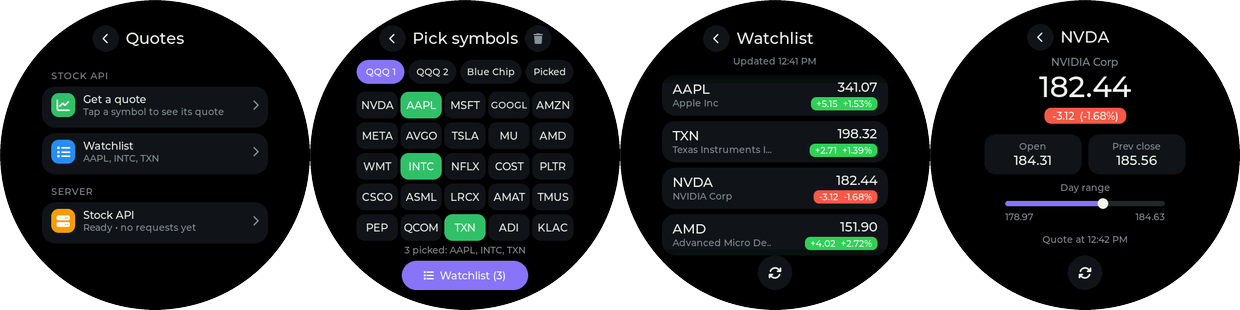
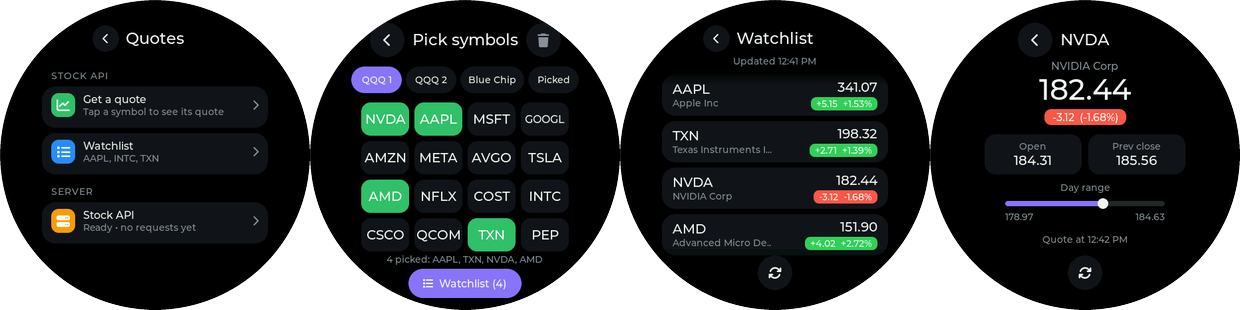
Quotes: bigger 4x4 symbol buttons and back button; phone page: collapsible sections
- Quotes pickers: 16 symbols per tab (was 25) on 72x50 / 86x58 buttons,
  52/56 px back and clear buttons, more space between header and tabs;
  up to 16 picked symbols (QT_SEL_MAX)
- Phone settings page: tap a section title to open/close it, Expand all /
  Collapse all, open sections remembered in localStorage (first visit:
  only Watch open)

Claude-Session: https://claude.ai/code/session_01QctZGpGqigtVyV83X9g1mG

diff --git a/main/web/settings.html b/main/web/settings.html
@@ -90,6 +90,18 @@ input[type=range] { width: 100%; margin: 12px 0 4px; accent-color: var(--accent)
 #toast.show { opacity: 1; transform: translate(-50%, 0); }
 #toast.bad { background: var(--err); }
 .hidden { display: none !important; }
+/* collapsible sections: tap a section's title to open or close it (remembered in this browser) */
+h2.fold { cursor: pointer; user-select: none; -webkit-user-select: none; margin: 8px 0 0; padding: 12px 16px;
+  border-radius: 12px; outline: none; }
+h2.fold:active { background: var(--field); }
+h2.fold:focus-visible { box-shadow: 0 0 0 2px var(--accent); }
+h2.fold .name { flex: 1; }
+h2.fold .chev { width: 9px; height: 9px; border-right: 2px solid var(--dim); border-bottom: 2px solid var(--dim);
+  transform: rotate(-45deg); transition: transform .15s; margin-right: 4px; }
+h2.fold.open .chev { transform: rotate(45deg); margin-top: -4px; }
+.card.folded { display: none; }
+.foldall { display: flex; justify-content: flex-end; margin: -10px 4px 0; }
+.foldall button { padding: 4px 6px; font-size: 14px; font-weight: 500; background: none; color: var(--accent); }
 </style>
 </head>
 <body>
@@ -107,6 +119,7 @@ input[type=range] { width: 100%; margin: 12px 0 4px; accent-color: var(--accent)
 <main id="app" class="hidden">
   <h1>Fusion Apps</h1>
   <p class="sub" id="statusLine"></p>
+  <div class="foldall"><button id="foldAll" type="button">Expand all</button></div>
 
   <h2><i style="background:var(--voice)"></i>Voice chat</h2>
   <div class="card">
@@ -242,6 +255,56 @@ input[type=range] { width: 100%; margin: 12px 0 4px; accent-color: var(--accent)
 const $ = (id) => document.getElementById(id);
 let state = null;            // last /api/state reply
 const dirty = new Set();     // text fields being edited (not overwritten by polling)
+
+/* ------------------------------------------------------------------ collapsible sections
+ * Each <h2> in the app opens and closes the card under it. Which ones are open is remembered in
+ * this browser (localStorage; if that's unavailable, they just start closed every time). */
+const FOLD_KEY = "fa_open_sections";
+function loadOpen() {
+  try { const v = JSON.parse(localStorage.getItem(FOLD_KEY)); if (Array.isArray(v)) return new Set(v); } catch (e) {}
+  return new Set(["Watch"]);                 // first visit: everything closed except Watch
+}
+function saveOpen(set) { try { localStorage.setItem(FOLD_KEY, JSON.stringify([...set])); } catch (e) {} }
+const openSections = loadOpen();
+const folds = [];
+function setFold(f, open) {
+  f.h.classList.toggle("open", open);
+  f.h.setAttribute("aria-expanded", open ? "true" : "false");
+  f.card.classList.toggle("folded", !open);
+  if (open) openSections.add(f.name); else openSections.delete(f.name);
+}
+function updateFoldAll() {
+  $("foldAll").textContent = folds.every((f) => f.h.classList.contains("open")) ? "Collapse all" : "Expand all";
+}
+for (const h of document.querySelectorAll("#app h2")) {
+  const card = h.nextElementSibling;
+  if (!card || !card.classList.contains("card")) continue;
+  const name = h.textContent.trim();
+  const label = document.createElement("span");
+  label.className = "name";
+  label.textContent = name;
+  for (const n of [...h.childNodes]) if (n.nodeType === Node.TEXT_NODE) n.remove();
+  h.appendChild(label);
+  const chev = document.createElement("span");
+  chev.className = "chev";
+  h.appendChild(chev);
+  h.classList.add("fold");
+  h.setAttribute("role", "button");
+  h.tabIndex = 0;
+  const f = { h, card, name };
+  folds.push(f);
+  setFold(f, openSections.has(name));
+  const toggle = () => { setFold(f, !h.classList.contains("open")); saveOpen(openSections); updateFoldAll(); };
+  h.addEventListener("click", toggle);
+  h.addEventListener("keydown", (e) => { if (e.key === "Enter" || e.key === " ") { e.preventDefault(); toggle(); } });
+}
+$("foldAll").onclick = () => {
+  const open = !folds.every((f) => f.h.classList.contains("open"));
+  for (const f of folds) setFold(f, open);
+  saveOpen(openSections);
+  updateFoldAll();
+};
+updateFoldAll();
 
 /* ------------------------------------------------------------------ helpers */
 let toastTimer;

diff --git a/main/apps/app_quotes.c b/main/apps/app_quotes.c
@@ -27,14 +27,25 @@
 #define C_QUOTES_1  0x2F8CFF
 #define C_QUOTES_2  0x5E5CE6
 
-/* ---- symbols on the picker screens: (tab name, up to 25 symbols) ------------------------
- * The same presets as the Stocks app's Pick screen, plus a "Picked" tab with your selection. */
-#define GRID_COLS 5
-#define GRID_ROWS 5
+/* ---- symbols on the picker screens: (tab name, up to 16 symbols) ------------------------
+ * A 4 x 4 grid of big buttons (easier to hit than the Stocks app's 5 x 5), so each tab has the
+ * 16 best-known names from the Stocks app's presets. Plus a "Picked" tab with your selection.
+ * Layout, top to bottom: header (big back button), tabs, grid, status, Watchlist button. */
+#define GRID_COLS 4
+#define GRID_ROWS 4
 #define GRID_MAX  (GRID_COLS * GRID_ROWS)
-#define SYM_W     UI_SZ(62, 72)      /* symbol button size */
-#define SYM_H     UI_SZ(40, 48)
-#define GRID_TOP  UI_SZ(138, 136)
+#define SYM_W     UI_SZ(72, 86)      /* symbol button size */
+#define SYM_H     UI_SZ(50, 58)
+#define SYM_GAP   8                  /* between buttons, both ways */
+#define HDR_Y     UI_SZ(34, 18)      /* header row (back button, title, clear) */
+#define HDR_BTN   UI_SZ(52, 56)      /* back / clear button size */
+#define TABS_Y    UI_SZ(100, 88)
+#define TABS_H    UI_SZ(40, 46)
+#define GRID_TOP  UI_SZ(154, 148)    /* grid is GRID_ROWS * (SYM_H + SYM_GAP) - SYM_GAP tall */
+#define STATUS_Y  UI_SZ(382, 410)
+#define GO_Y      UI_SZ(404, 436)    /* Watchlist button */
+#define GO_W      UI_SZ(170, 220)
+#define GO_H      UI_SZ(44, 52)
 
 typedef struct {
     const char *name;
@@ -42,15 +53,12 @@ typedef struct {
 } sym_group_t;
 
 static const sym_group_t GROUPS[] = {
-    { "QQQ 1", { "NVDA", "AAPL", "MSFT", "GOOGL", "AMZN", "META", "AVGO", "TSLA", "MU", "AMD",
-                 "WMT", "INTC", "NFLX", "COST", "PLTR", "CSCO", "ASML", "LRCX", "AMAT", "TMUS",
-                 "PEP", "QCOM", "TXN", "ADI", "KLAC", NULL } },
-    { "QQQ 2", { "GOOG", "ISRG", "LIN", "INTU", "AMGN", "ARM", "GILD", "SHOP", "APP", "BKNG",
-                 "PANW", "CRWD", "HON", "ADBE", "ADP", "SBUX", "MELI", "CMCSA", "VRTX", "REGN",
-                 "MRVL", "CDNS", "SNPS", "ABNB", "PYPL", NULL } },
-    { "Blue Chip", { "JPM", "V", "MA", "BAC", "GS", "JNJ", "UNH", "LLY", "MRK", "ABBV",
-                     "PG", "KO", "HD", "MCD", "NKE", "DIS", "IBM", "ORCL", "CRM", "VZ",
-                     "XOM", "CVX", "CAT", "BA", "T", NULL } },
+    { "QQQ 1", { "NVDA", "AAPL", "MSFT", "GOOGL", "AMZN", "META", "AVGO", "TSLA",
+                 "AMD", "NFLX", "COST", "INTC", "CSCO", "QCOM", "TXN", "PEP", NULL } },
+    { "QQQ 2", { "ADBE", "INTU", "AMAT", "MU", "LRCX", "ASML", "PLTR", "ARM",
+                 "PANW", "CRWD", "SHOP", "ABNB", "PYPL", "SBUX", "BKNG", "ISRG", NULL } },
+    { "Blue Chip", { "JPM", "V", "MA", "BAC", "GS", "JNJ", "UNH", "LLY",
+                     "PG", "KO", "HD", "MCD", "DIS", "IBM", "XOM", "T", NULL } },
 };
 #define GROUP_COUNT ((int)(sizeof(GROUPS) / sizeof(GROUPS[0])))
 #define PICKED_TAB  GROUP_COUNT          /* the symbols picked for the watchlist */
@@ -206,22 +214,23 @@ static lv_obj_t *header(lv_obj_t *scr, const char *title, lv_event_cb_t back_cb,
     lv_obj_t *hdr = lv_obj_create(scr);
     lv_obj_remove_style_all(hdr);
     lv_obj_remove_flag(hdr, LV_OBJ_FLAG_CLICKABLE);
-    lv_obj_set_size(hdr, LV_SIZE_CONTENT, UI_SZ(44, 46));
-    lv_obj_align(hdr, LV_ALIGN_TOP_MID, 0, UI_SZ(36, 22));
+    lv_obj_set_size(hdr, LV_SIZE_CONTENT, HDR_BTN);
+    lv_obj_align(hdr, LV_ALIGN_TOP_MID, 0, HDR_Y);
     lv_obj_set_flex_flow(hdr, LV_FLEX_FLOW_ROW);
     lv_obj_set_flex_align(hdr, LV_FLEX_ALIGN_CENTER, LV_FLEX_ALIGN_CENTER, LV_FLEX_ALIGN_CENTER);
-    lv_obj_set_style_pad_column(hdr, 10, 0);
-    lv_obj_t *back = ui_round_button(hdr, ICON_LEFT, UI_SZ(&ui_icons_16, &ui_icons_20), UI_SZ(40, 46), ui_pal.card, ui_pal.text);
+    lv_obj_set_style_pad_column(hdr, 12, 0);
+    lv_obj_t *back = ui_round_button(hdr, ICON_LEFT, UI_SZ(&ui_icons_20, &ui_icons_28), HDR_BTN, ui_pal.card, ui_pal.text);
+    lv_obj_set_ext_click_area(back, 8);       /* a little extra margin around it */
     lv_obj_add_event_cb(back, back_cb, LV_EVENT_CLICKED, NULL);
     ui_label(hdr, UI_F_TITLE, ui_pal.text, title);
     lv_obj_t *r;
     if (right_icon) {
-        r = ui_round_button(hdr, right_icon, UI_SZ(&ui_icons_16, &ui_icons_20), UI_SZ(40, 46), ui_pal.card, ui_pal.text_dim);
+        r = ui_round_button(hdr, right_icon, UI_SZ(&ui_icons_20, &ui_icons_28), HDR_BTN, ui_pal.card, ui_pal.text_dim);
         lv_obj_add_event_cb(r, right_cb, LV_EVENT_CLICKED, NULL);
     } else {
         r = lv_obj_create(hdr);
         lv_obj_remove_style_all(r);
-        lv_obj_set_size(r, UI_SZ(40, 46), UI_SZ(40, 46));
+        lv_obj_set_size(r, HDR_BTN, HDR_BTN);
     }
     if (right_out) *right_out = r;
     return hdr;
@@ -402,7 +411,7 @@ static lv_obj_t *sym_button(const char *text, int i)
     lv_obj_t *b = lv_obj_create(A->p.grid);
     lv_obj_remove_style_all(b);
     lv_obj_set_size(b, SYM_W, SYM_H);
-    lv_obj_set_style_radius(b, 12, 0);
+    lv_obj_set_style_radius(b, 14, 0);
     lv_obj_set_style_bg_opa(b, LV_OPA_COVER, 0);
     lv_obj_set_style_bg_color(b, ui_pal.card, 0);
     lv_obj_set_style_transform_scale(b, 235, LV_STATE_PRESSED);
@@ -410,7 +419,7 @@ static lv_obj_t *sym_button(const char *text, int i)
     lv_obj_set_style_transform_pivot_y(b, SYM_H / 2, 0);
     lv_obj_add_flag(b, LV_OBJ_FLAG_CLICKABLE);
     lv_obj_remove_flag(b, LV_OBJ_FLAG_SCROLLABLE);
-    lv_obj_t *l = ui_label(b, strlen(text) > 4 ? UI_FONT(14, 16) : UI_FONT(16, 20), ui_pal.text, text);
+    lv_obj_t *l = ui_label(b, strlen(text) > 4 ? UI_FONT(16, 20) : UI_FONT(20, 24), ui_pal.text, text);
     lv_obj_center(l);
     lv_obj_add_event_cb(b, sym_cb, LV_EVENT_CLICKED, (void *)(intptr_t)i);
     return b;
@@ -510,14 +519,14 @@ static lv_obj_t *picker_build(void *arg)
     lv_obj_t *bar = lv_obj_create(scr);
     lv_obj_remove_style_all(bar);
     lv_obj_remove_flag(bar, LV_OBJ_FLAG_CLICKABLE);
-    lv_obj_set_size(bar, LV_SIZE_CONTENT, UI_SZ(36, 42));
+    lv_obj_set_size(bar, LV_SIZE_CONTENT, TABS_H);
     lv_obj_set_flex_flow(bar, LV_FLEX_FLOW_ROW);
     lv_obj_set_style_pad_column(bar, 6, 0);
-    lv_obj_align(bar, LV_ALIGN_TOP_MID, 0, UI_SZ(90, 80));
+    lv_obj_align(bar, LV_ALIGN_TOP_MID, 0, TABS_Y);
     for (int t = 0; t < ntabs; t++) {
         lv_obj_t *b = lv_obj_create(bar);
         lv_obj_remove_style_all(b);
-        lv_obj_set_size(b, t == 2 ? UI_SZ(92, 108) : UI_SZ(72, 84), UI_SZ(36, 42));
+        lv_obj_set_size(b, t == 2 ? UI_SZ(96, 108) : UI_SZ(76, 86), TABS_H);
         lv_obj_set_style_radius(b, LV_RADIUS_CIRCLE, 0);
         lv_obj_set_style_bg_opa(b, LV_OPA_COVER, 0);
         lv_obj_add_flag(b, LV_OBJ_FLAG_CLICKABLE);
@@ -534,29 +543,29 @@ static lv_obj_t *picker_build(void *arg)
     lv_obj_remove_style_all(A->p.grid);
     lv_obj_remove_flag(A->p.grid, LV_OBJ_FLAG_CLICKABLE);
     lv_obj_remove_flag(A->p.grid, LV_OBJ_FLAG_SCROLLABLE);
-    lv_obj_set_size(A->p.grid, GRID_COLS * SYM_W + (GRID_COLS - 1) * 4, GRID_ROWS * SYM_H + (GRID_ROWS - 1) * 6);
+    lv_obj_set_size(A->p.grid, GRID_COLS * SYM_W + (GRID_COLS - 1) * SYM_GAP, GRID_ROWS * SYM_H + (GRID_ROWS - 1) * SYM_GAP);
     lv_obj_align(A->p.grid, LV_ALIGN_TOP_MID, 0, GRID_TOP);
     lv_obj_set_flex_flow(A->p.grid, LV_FLEX_FLOW_ROW_WRAP);
     lv_obj_set_flex_align(A->p.grid, LV_FLEX_ALIGN_START, LV_FLEX_ALIGN_START, LV_FLEX_ALIGN_START);
-    lv_obj_set_style_pad_column(A->p.grid, 4, 0);
-    lv_obj_set_style_pad_row(A->p.grid, 6, 0);
+    lv_obj_set_style_pad_column(A->p.grid, SYM_GAP, 0);
+    lv_obj_set_style_pad_row(A->p.grid, SYM_GAP, 0);
 
     A->p.status = ui_label(scr, UI_FONT(14, 16), ui_pal.text_dim, "");
     lv_obj_set_width(A->p.status, watch ? UI_SZ(290, UI_W - 60) : UI_SZ(280, UI_W - 80));
     lv_obj_set_style_text_align(A->p.status, LV_TEXT_ALIGN_CENTER, 0);
     lv_label_set_long_mode(A->p.status, LV_LABEL_LONG_MODE_DOTS);
-    lv_obj_align(A->p.status, LV_ALIGN_TOP_MID, 0, watch ? UI_SZ(368, 408) : UI_SZ(374, 414));
+    lv_obj_align(A->p.status, LV_ALIGN_TOP_MID, 0, STATUS_Y);
 
     if (watch) {
         /* [list icon] Watchlist (N) */
         A->p.go = lv_obj_create(scr);
         lv_obj_remove_style_all(A->p.go);
-        lv_obj_set_size(A->p.go, UI_SZ(190, 220), UI_SZ(44, 50));
+        lv_obj_set_size(A->p.go, GO_W, GO_H);
         lv_obj_set_style_radius(A->p.go, LV_RADIUS_CIRCLE, 0);
         lv_obj_set_style_bg_opa(A->p.go, LV_OPA_COVER, 0);
         lv_obj_set_style_transform_scale(A->p.go, 240, LV_STATE_PRESSED);
-        lv_obj_set_style_transform_pivot_x(A->p.go, UI_SZ(190, 220) / 2, 0);
-        lv_obj_set_style_transform_pivot_y(A->p.go, UI_SZ(44, 50) / 2, 0);
+        lv_obj_set_style_transform_pivot_x(A->p.go, GO_W / 2, 0);
+        lv_obj_set_style_transform_pivot_y(A->p.go, GO_H / 2, 0);
         lv_obj_add_flag(A->p.go, LV_OBJ_FLAG_CLICKABLE);
         lv_obj_remove_flag(A->p.go, LV_OBJ_FLAG_SCROLLABLE);
         lv_obj_set_flex_flow(A->p.go, LV_FLEX_FLOW_ROW);
@@ -564,11 +573,11 @@ static lv_obj_t *picker_build(void *arg)
         lv_obj_set_style_pad_column(A->p.go, 8, 0);
         ui_icon(A->p.go, UI_SZ(&ui_icons_16, &ui_icons_20), lv_color_white(), ICON_LIST);
         A->p.go_lbl = ui_label(A->p.go, UI_FONT(16, 20), lv_color_white(), "Watchlist");
-        lv_obj_align(A->p.go, LV_ALIGN_TOP_MID, 0, UI_SZ(392, 438));
+        lv_obj_align(A->p.go, LV_ALIGN_TOP_MID, 0, GO_Y);
         lv_obj_add_event_cb(A->p.go, go_cb, LV_EVENT_CLICKED, NULL);
     } else {
         lv_obj_t *hint = ui_label(scr, UI_FONT(12, 14), ui_pal.text_dim, "Swipe right to go back");
-        lv_obj_align(hint, LV_ALIGN_TOP_MID, 0, UI_SZ(398, 442));
+        lv_obj_align(hint, LV_ALIGN_TOP_MID, 0, STATUS_Y + UI_SZ(24, 28));
     }
 
     build_grid();
@@ -983,17 +992,16 @@ static lv_obj_t *quote_build(void *arg)
     A->q.scr = scr;
     lv_obj_add_event_cb(scr, back_gesture_cb, LV_EVENT_GESTURE, NULL);
 
-    lv_obj_t *hdr = header(scr, A->quote_sym, pop_cb, NULL, NULL, NULL);
-    lv_obj_align(hdr, LV_ALIGN_TOP_MID, 0, UI_HEADER_Y);
+    header(scr, A->quote_sym, pop_cb, NULL, NULL, NULL);
 
     A->q.name = ui_label(scr, UI_FONT(16, 20), ui_pal.text_dim, "");
     lv_obj_set_size(A->q.name, UI_SZ(290, UI_W - 60), lv_font_get_line_height(UI_FONT(16, 20)));
     lv_label_set_long_mode(A->q.name, LV_LABEL_LONG_MODE_DOTS);
     lv_obj_set_style_text_align(A->q.name, LV_TEXT_ALIGN_CENTER, 0);
-    lv_obj_align(A->q.name, LV_ALIGN_TOP_MID, 0, UI_SZ(84, 80));
+    lv_obj_align(A->q.name, LV_ALIGN_TOP_MID, 0, UI_SZ(90, 80));   /* under the bigger header */
 
     A->q.price = ui_label(scr, &lv_font_montserrat_44, ui_pal.text, "...");
-    lv_obj_align(A->q.price, LV_ALIGN_TOP_MID, 0, UI_SZ(106, 110));
+    lv_obj_align(A->q.price, LV_ALIGN_TOP_MID, 0, UI_SZ(110, 110));
 
     A->q.pill = lv_obj_create(scr);
     lv_obj_remove_style_all(A->q.pill);
@@ -1004,7 +1012,7 @@ static lv_obj_t *quote_build(void *arg)
     lv_obj_set_style_pad_hor(A->q.pill, 12, 0);
     lv_obj_set_style_pad_ver(A->q.pill, 3, 0);
     A->q.chg = ui_label(A->q.pill, UI_FONT(16, 20), lv_color_white(), "");
-    lv_obj_align(A->q.pill, LV_ALIGN_TOP_MID, 0, UI_SZ(162, 170));
+    lv_obj_align(A->q.pill, LV_ALIGN_TOP_MID, 0, UI_SZ(164, 170));
 
     /* open | previous close */
     lv_obj_t *cards = lv_obj_create(scr);

diff --git a/main/app_config.h b/main/app_config.h
@@ -103,7 +103,7 @@
 #define QT_TIMEOUT_MS        15000
 #define QT_REFRESH_MS        (60 * 1000)        /* the open Watchlist or Quote screen refreshes this often */
 #define QT_RETRY_MS          (15 * 1000)        /* after a failed watchlist load */
-#define QT_SEL_MAX           20                 /* symbols you can pick for the watchlist */
+#define QT_SEL_MAX           16                 /* symbols you can pick for the watchlist (one Picked page) */
 #define DEFAULT_QT_SYMBOLS   "AAPL,INTC,TXN"    /* first boot; secrets.h STOCK_API_SYMBOLS overrides */
 #define QT_DEBUG             0                  /* 1 = log the first 300 bytes of every reply (tag "quotes") */
 

diff --git a/tools/ui_preview/sim.c b/tools/ui_preview/sim.c
@@ -624,7 +624,7 @@ int main(int argc, char **argv)
     shot("b2_quotes_quote_from_watchlist");
     swipe(CX(110), MY(250), CX(360), MY(250)); step(400);  /* -> Watchlist */
     swipe(CX(110), MY(250), CX(360), MY(250)); step(400);  /* -> Pick symbols */
-    tap(CX(233 + 107), TY(58));                          /* clear (trash) */
+    tap(CX(233 + 113), TY(60));                          /* clear (trash) */
     shot("b3_quotes_clear_confirm");
     tap_text("Clear");
     shot("b4_quotes_pick_watch_empty");

diff --git a/README.md b/README.md
@@ -91,9 +91,9 @@ the device.*
 | **Pick symbols** (+ or swipe left in Stocks) | Tabs of preset symbols (**QQQ 1**, **QQQ 2**, **Blue Chip**) and **Other** (watchlist symbols not on a tab, e.g. added from Claude). Tap to add (green) or remove (gray) |
 | **Stock server** (gear in Stocks) | See and change the MCP server URL and API key, connection status, refresh now, reset URL to `secrets.h` |
 | **Quotes** | The REST stocks app. A menu: **Get a quote**, **Watchlist** (shows what you picked) and **Stock API** (with its status) |
-| **Get a quote** (Quotes) | Tabs of symbols (**QQQ 1**, **QQQ 2**, **Blue Chip**). Tap one for its Quote screen; the one you looked at last has a ring |
+| **Get a quote** (Quotes) | Tabs of symbols (**QQQ 1**, **QQQ 2**, **Blue Chip**), 16 big buttons each (4 x 4), and a big back button. Tap one for its Quote screen; the one you looked at last has a ring |
 | **Quote** (Quotes) | A detailed quote from `GET /quote`: price, change, open, previous close and the day's range. Refresh button; refreshes every minute while open |
-| **Pick symbols** (Quotes > Watchlist) | The same tabs plus **Picked**. Tap to select (green) or deselect, up to 20. The trash button clears the list. **Watchlist (N)** shows them |
+| **Pick symbols** (Quotes > Watchlist) | The same tabs plus **Picked**. Tap to select (green) or deselect, up to 16. The trash button clears the list. **Watchlist (N)** shows them |
 | **Watchlist** (Quotes) | Quotes for the picked symbols from one `GET /watchlist`, in the order you picked them. Tap a row for its Quote screen. Refresh button; refreshes every minute while open |
 | **Stock API** (Quotes) | See and change the base URL and API key, status of the last request, the two endpoints, **Test** (asks for one quote), reset URL to `secrets.h` |
 | **Settings** | Wi-Fi network (scan list or typed name) and password, dark mode, brightness, volume, voice-chat conversation (show / start new) and wake word on/off, Voice AI conversation (show / start new), phone settings page (on/off, address, PIN), battery (%, state, voltage), version and free memory, restart, reset |
@@ -184,6 +184,11 @@ as before on the watch; the page is a second way to change the same settings.
    address (`fusion-apps.local`), the **PIN** (6 digits) and the IP address.
 2. On the phone, on the same Wi-Fi: open `http://fusion-apps.local` (or `http://<IP address>`).
 3. Enter the PIN. The browser stays signed in until the watch restarts or you make a new PIN.
+
+Each section (Voice chat, Voice AI, Translator, Stocks, Quotes, Display and sound, Watch) opens and
+closes when you tap its title; **Expand all** / **Collapse all** sits under the status line. The
+first time, only Watch is open; after that the page remembers which sections you left open (in that
+browser's local storage, so each phone keeps its own).
 
 | On the page | What it changes |
 | --- | --- |
@@ -862,10 +867,11 @@ make                      # first run clones cJSON; prints "N checks, 0 failed"
 | `app_config.h` | `MCP_DEBUG` | 0; 1 logs the first 300 bytes of each MCP reply |
 | `apps/app_stocks.c` | `GROUPS` (Pick tabs, up to 25 symbols each) | QQQ 1, QQQ 2, Blue Chip |
 | `app_config.h` | `QT_PATH_QUOTE`, `QT_PATH_WATCHLIST`, `QT_KEY_HEADER`, `QT_TIMEOUT_MS` | `/quote`, `/watchlist`, `x-api-key`, 15 s |
-| `app_config.h` | `QT_REFRESH_MS`, `QT_RETRY_MS`, `QT_SEL_MAX` | 60 s, 15 s, 20 symbols |
+| `app_config.h` | `QT_REFRESH_MS`, `QT_RETRY_MS`, `QT_SEL_MAX` | 60 s, 15 s, 16 symbols |
 | `app_config.h` | `DEFAULT_QT_SYMBOLS` | `AAPL,INTC,TXN` (first boot; `STOCK_API_SYMBOLS` in `secrets.h` wins) |
 | `app_config.h` | `QT_DEBUG` | 0; 1 logs the first 300 bytes of each Stock API reply |
-| `apps/app_quotes.c` | `GROUPS` (tabs, up to 25 symbols each) | QQQ 1, QQQ 2, Blue Chip |
+| `apps/app_quotes.c` | `GROUPS` (tabs, up to 16 symbols each) | QQQ 1, QQQ 2, Blue Chip |
+| `apps/app_quotes.c` | `SYM_W`, `SYM_H`, `HDR_BTN` (symbol and back button sizes, 1.75C / 2.06) | 72 x 50 / 86 x 58 px, 52 / 56 px |
 | `app_config.h` | `DEFAULT_WEB_SETTINGS`, `WEB_HOSTNAME` | on (first boot), `fusion-apps` (-> `fusion-apps.local`) |
 | `app_config.h` | `WEB_PIN_MAX_TRIES`, `WEB_PIN_LOCK_S`, `WEB_MAX_SESSIONS` | 5, 60 s, 4 |
 | `ui/ui_theme.c` | palette colors | |
